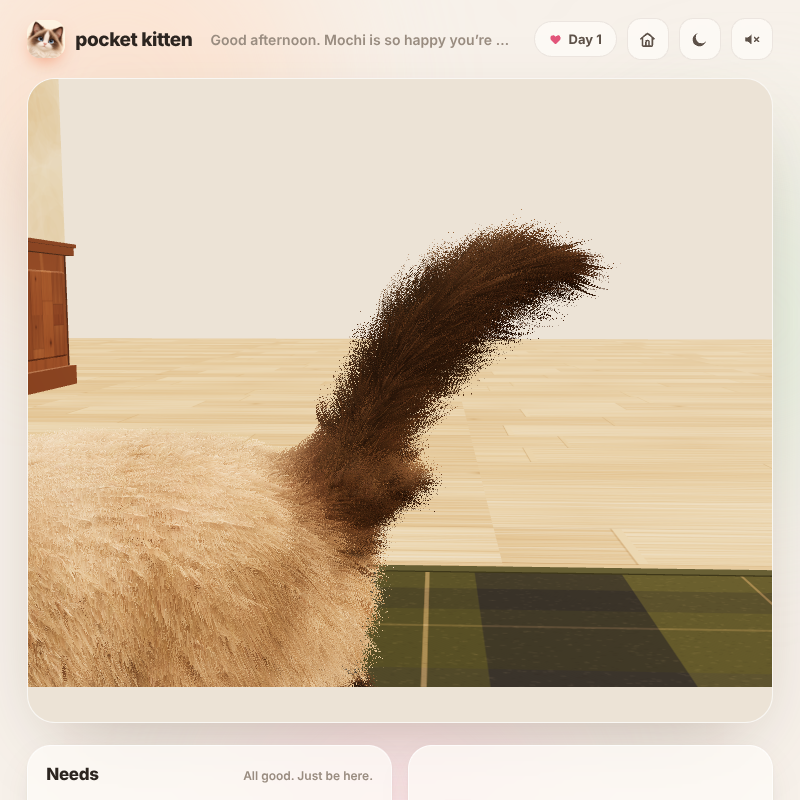
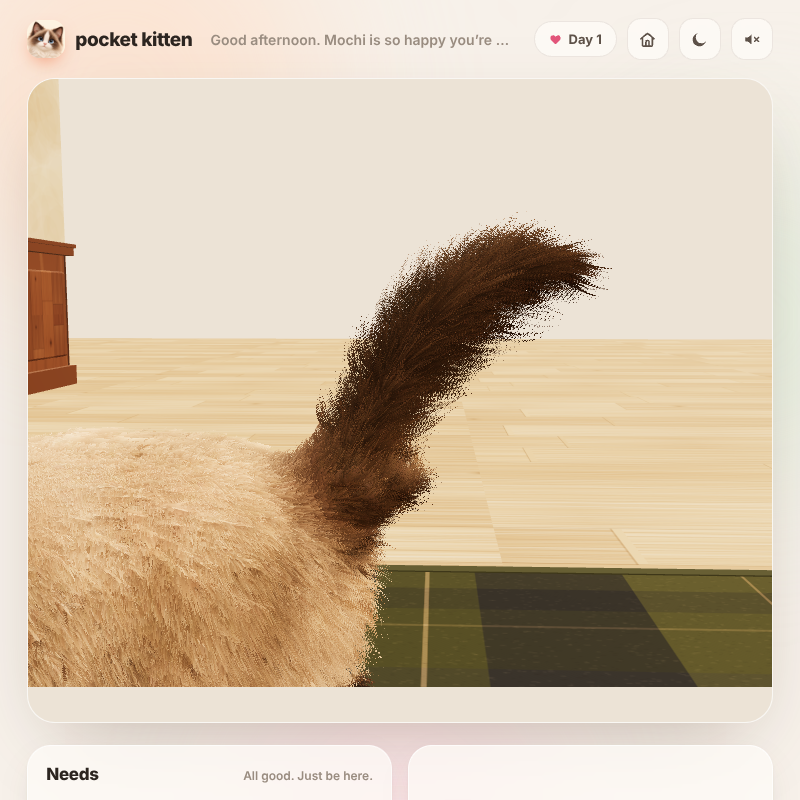
Long coat: hairs gather into locks with distance (no sub-pixel grain); shorter fur round the tail's root
Claude-Session: https://claude.ai/code/session_01URjRU4Zd6JqdoEyWUnXXSA

Changed region(s): [[0.0312, 0.2812, 0.75, 0.875], [0.0312, 0.7812, 0.2188, 0.8438]]

diff --git a/dist/real-cat.js b/dist/real-cat.js
@@ -530,7 +530,8 @@ export class RealCat {
         case 'armLow': d.set(0, -1, -.15); return [F.armLow + F.feather * .6 * back, .85];
         case 'haunch': {
           // Britches: the long fur down the back of the thighs.
-          const br = back * (1 - st(p.z, -.3, -.12));
+          // (Below the root of her tail only: long fur round the root itself stood out as a shaggy collar.)
+          const br = back * (1 - st(p.z, -.3, -.12)) * (1 - st(p.y, .0, .12));
           d.set(0, -1, -.4); return [F.haunch + (F.britches - F.haunch) * br, .7 - .15 * br];
         }
         case 'shin': d.set(0, -1, -.3); return [F.shin + (F.britches * .7 - F.shin) * back, .7];
@@ -649,6 +650,11 @@ export class RealCat {
           // (Short fur, her face and paws: nearly round, as it was.)
           float furLong = vFurLen < 0.024 ? 1.6 : furStretch;
           vec3 furG = (vBind + furDn * dot(vBind, furDn) * (1.0 / furLong - 1.0)) * furDensity;
+          // From further off the hairs gather into locks, each still a pixel
+          // or two wide: cells smaller than a pixel are noise (the "static"
+          // at the app's usual distance, and it flickers as she moves).
+          vec3 furFw = fwidth(furG);
+          furG /= exp2(max(0.0, ceil(log2(max(max(furFw.x, furFw.y), furFw.z) * 0.85))));
           vec3 furCell = floor(furG);
           float furSeed = furHash3(furCell);
           vec3 furF = fract(furG) - 0.5 - (vec3(furHash3(furCell + 7.1), furHash3(furCell + 3.3), furHash3(furCell + 5.7)) - 0.5) * 0.4;
@@ -682,7 +688,7 @@ export class RealCat {
           diffuseColor.rgb += (diffuseColor.rgb * 0.7 + vec3(0.035, 0.022, 0.013)) * furRim;
           #include <lights_physical_fragment>`);
     };
-    m.customProgramCacheKey = () => long ? 'mochi-fur-long4' : 'mochi-fur';
+    m.customProgramCacheKey = () => long ? 'mochi-fur-long6' : 'mochi-fur';
     this.furUniforms = u;
     const fur = new THREE.SkinnedMesh(g, m);
     fur.frustumCulled = false;

diff --git a/docs/mochi-longhair/README.md b/docs/mochi-longhair/README.md
@@ -99,8 +99,13 @@ silky fur with a flowing shape. Four causes, each fixed at its source:
 Not used: alpha to coverage for soft hair edges. The canvas is see-through
 to the page, and where a faded wall was behind her the fur came out white.
 Pictures: `tail-closeup.png`, `tail-sit-and-body.jpg`, `walk-normal.mp4`.
-Not checked: how the 9-layer version looks on a real phone; the outline
-still shows some single dots close up.
+5. **Grain at the app's usual distance.** There each hair cell was smaller
+   than a pixel: noise, and it flickers. The cells now double in size until
+   they are about a pixel across (`fwidth` of the cell grid), so from further
+   off hairs gather into locks. Britches no longer run up round the tail's
+   root (a shaggy collar from behind).
+Not checked: how the 9-layer version looks on a real phone. From directly
+behind, the fur round the tail's root is still a dark ring.
 
 ## Missing (not substituted)
 - **A skeleton and skin weights in the file.** Meshy's rigging refused her
